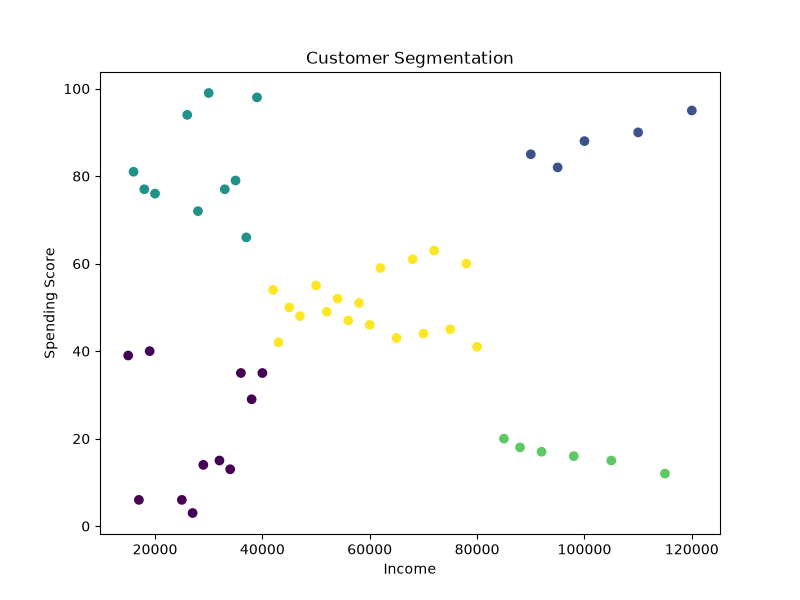
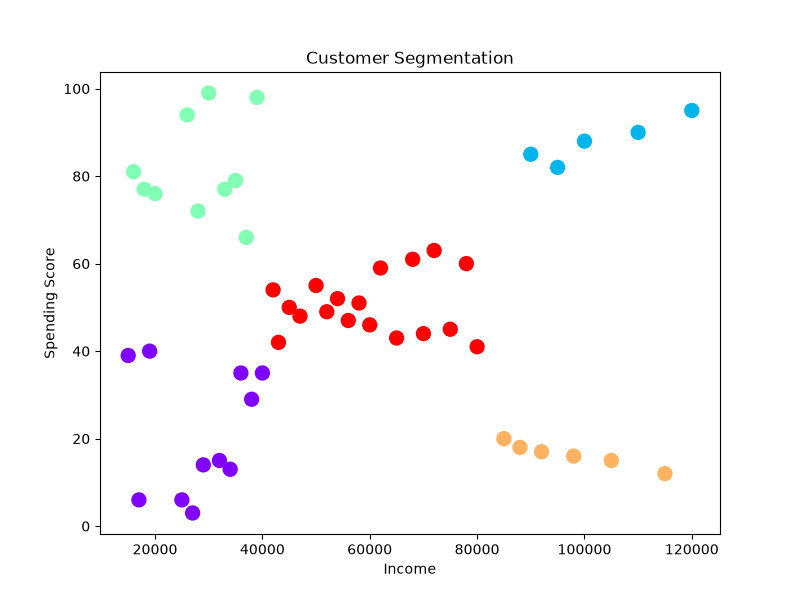
Complete customer segmentation project with clustering and visualization

diff --git a/src/eda.py b/src/eda.py
@@ -1,9 +1,4 @@
-import os
 import matplotlib.pyplot as plt
-
-
-# Images folder yoo hin jirre uuma
-os.makedirs("images", exist_ok=True)
 
 
 def basic_info(df):
@@ -12,14 +7,13 @@ def basic_info(df):
     print("DATASET INFORMATION")
     print("=" * 50)
 
-    print("\nFirst 5 Rows")
     print(df.head())
 
     print("\nShape")
     print(df.shape)
 
     print("\nInfo")
-    df.info()
+    print(df.info())
 
     print("\nMissing Values")
     print(df.isnull().sum())
@@ -28,52 +22,12 @@ def basic_info(df):
     print(df.describe())
 
 
-def income_distribution(df):
+def plot_histograms(df):
 
-    plt.figure(figsize=(8, 5))
+    df.hist(figsize=(10,8))
 
-    plt.hist(df["Income"], bins=10)
+    plt.tight_layout()
 
-    plt.title("Income Distribution")
-    plt.xlabel("Income")
-    plt.ylabel("Customers")
+    plt.savefig("images/histograms.png")
 
-    plt.grid(True)
-
-    plt.savefig("images/income_distribution.png")
-    plt.show()
-
-
-def spending_distribution(df):
-
-    plt.figure(figsize=(8, 5))
-
-    plt.hist(df["SpendingScore"], bins=10)
-
-    plt.title("Spending Score Distribution")
-    plt.xlabel("Spending Score")
-    plt.ylabel("Customers")
-
-    plt.grid(True)
-
-    plt.savefig("images/spending_distribution.png")
-    plt.show()
-
-
-def scatter_plot(df):
-
-    plt.figure(figsize=(8, 6))
-
-    plt.scatter(
-        df["Income"],
-        df["SpendingScore"]
-    )
-
-    plt.title("Income vs Spending Score")
-    plt.xlabel("Income")
-    plt.ylabel("Spending Score")
-
-    plt.grid(True)
-
-    plt.savefig("images/scatter.png")
     plt.show()

diff --git a/src/clustering.py b/src/clustering.py
@@ -15,16 +15,14 @@ def elbow_method(X):
 
         model.fit(X)
 
-        errors.append(model.inertia())
+        errors.append(model.inertia_)
 
     plt.figure(figsize=(8,5))
 
     plt.plot(range(1,11), errors, marker="o")
 
-    plt.xlabel("Clusters")
-
+    plt.xlabel("Number of Clusters (K)")
     plt.ylabel("Inertia")
-
     plt.title("Elbow Method")
 
     plt.grid(True)
@@ -32,3 +30,15 @@ def elbow_method(X):
     plt.savefig("images/elbow.png")
 
     plt.show()
+
+
+def train_model(X):
+
+    model = KMeans(
+        n_clusters=5,
+        random_state=42
+    )
+
+    model.fit(X)
+
+    return model

diff --git a/main.py b/main.py
@@ -4,11 +4,16 @@ from src.preprocess import load_data, preprocess
 from src.clustering import train_model, elbow_method
 from src.visualization import plot_clusters
 from src.evaluation import evaluate_model
+from src.eda import basic_info
+
 
 os.makedirs("images", exist_ok=True)
 os.makedirs("output", exist_ok=True)
 
+
 df = load_data("data/customers.csv")
+
+basic_info(df)
 
 X = preprocess(df)
 
@@ -27,4 +32,4 @@ df.to_csv(
     index=False
 )
 
-print("Project Finished Successfully")
+print("\nProject Finished Successfully ✅")

diff --git a/src/preprocess.py b/src/preprocess.py
@@ -3,7 +3,8 @@ from sklearn.preprocessing import StandardScaler
 
 
 def load_data(path):
-    return pd.read_csv(path)
+    df = pd.read_csv(path)
+    return df
 
 
 def preprocess(df):
@@ -11,6 +12,6 @@ def preprocess(df):
 
     scaler = StandardScaler()
 
-    X_scaled = scaler.fit_transform(X)
+    X = scaler.fit_transform(X)
 
-    return X_scaled
+    return X

diff --git a/src/visualization.py b/src/visualization.py
@@ -9,16 +9,13 @@ def plot_clusters(df):
         df["Income"],
         df["SpendingScore"],
         c=df["Cluster"],
-        s=80
+        cmap="rainbow",
+        s=100
     )
 
     plt.xlabel("Income")
-
     plt.ylabel("Spending Score")
-
     plt.title("Customer Segmentation")
-
-    plt.grid(True)
 
     plt.savefig("images/result.png")
 
